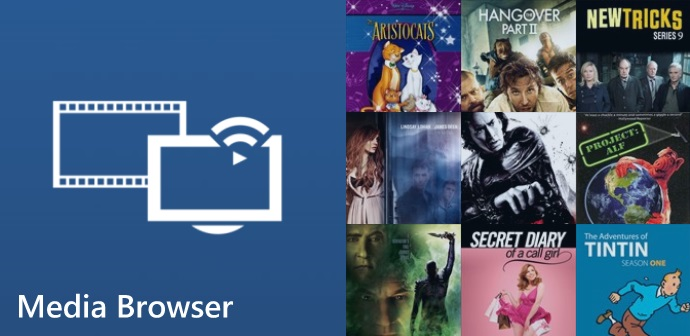
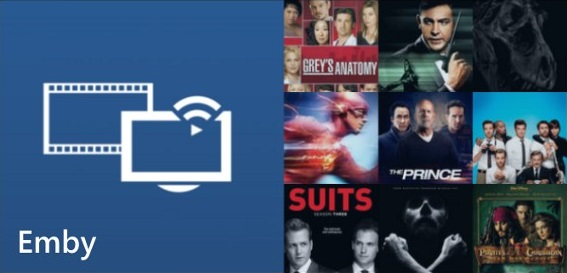
Updated references to Media Browser in settings

diff --git a/Emby.WindowsPhone/Views/SettingsView.xaml b/Emby.WindowsPhone/Views/SettingsView.xaml
@@ -201,7 +201,7 @@
                                 <Image Source="/Images/MBConnectLogo.png"
                                        Height="100"
                                        Width="100"/>
-                                <TextBlock Text="mb connect"
+                                <TextBlock Text="emby connect"
                                            Style="{StaticResource PhoneTextNormalStyle}"
                                            VerticalAlignment="Bottom"
                                            Margin="12,0,12,6" />
@@ -234,7 +234,7 @@
                                         Width="{StaticResource TileImageSize}">
                                     <Grid>
                                         <Image Source="/Assets/Tiles/FlipCycleTileSmallTransparent.png" />
-                                        <TextBlock Text="Media Browser"
+                                        <TextBlock Text="Emby"
                                                    VerticalAlignment="Bottom"
                                                    FontSize="8"
                                                    Margin="3" />
